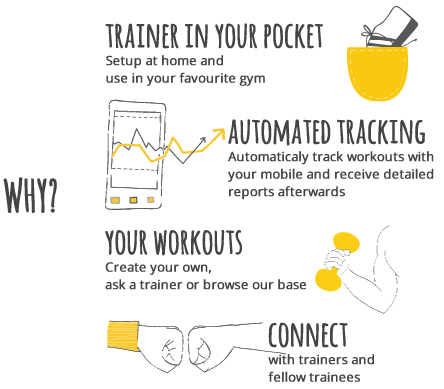
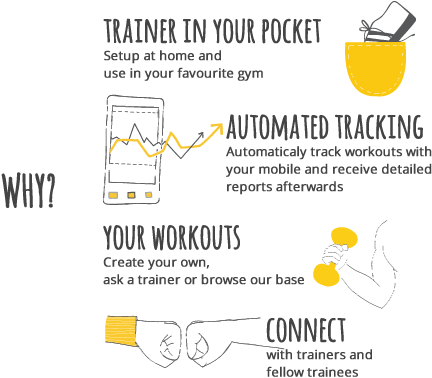
Staging now has the same configuration as production (apart from mailing). The login page has the transparent 'why register' image.

diff --git a/app/assets/stylesheets/registrations.css.scss b/app/assets/stylesheets/registrations.css.scss
@@ -1,7 +1,9 @@
 @import "definitions.scss";
 
 .registration-page {
+    $fieldsWidthWider: 300px;
     $fieldsWidth: 250px;
+    $fieldsWidthSmaller: 200px;
     
     .the-form {
         margin-bottom: 25px;
@@ -18,7 +20,14 @@
                 @include flat-text-input;
                 border: 1px solid #ddd;
                 width: $fieldsWidth;
+                @media (min-width: 768px) and (max-width: 979px) {
+                    width: $fieldsWidthSmaller;
+                }
+                @media (min-width: 1200px) {
+                    width: $fieldsWidthWider;
+                }
             }
+            
         }
         
         .remember-me {
@@ -40,10 +49,19 @@
         }
         
         .submit-button {
+            @mixin btn-login-adjusted-width($theWidth) {
+                width:$theWidth + 2*6px + 2px;
+            }
             input {
                 @include flat-btn;
                 padding: 6px;
-                width: $fieldsWidth + 2*6px + 2px;
+                @include btn-login-adjusted-width($fieldsWidth);
+                @media (min-width: 768px) and (max-width: 979px) {
+                    @include btn-login-adjusted-width($fieldsWidthSmaller);
+                }
+                @media (min-width: 1200px) {
+                    @include btn-login-adjusted-width($fieldsWidthWider);
+                }
                 background-color: $lightBlue;
                 color: white;
                 
@@ -63,8 +81,13 @@
     }
     
     .why-register {
-        @include central-image('login/why-register.png');
-        @include size(444px, 389px);
+        background: {
+            image: image-url('login/why-register.png');
+            position: 0px center;
+            repeat: no-repeat;
+        }
+        min-width: 432px;
+        height: 380px;
         margin-bottom: 25px;
     }
 }

diff --git a/config/environments/staging.rb b/config/environments/staging.rb
@@ -1,40 +1,69 @@
 Trainerjim::Application.configure do
   # Settings specified here will take precedence over those in config/application.rb
 
-  # In the development environment your application's code is reloaded on
-  # every request. This slows down response time but is perfect for development
-  # since you don't have to restart the web server when you make code changes.
-  config.cache_classes = false
+  # Code is not reloaded between requests
+  config.cache_classes = true
 
-  # Log error messages when you accidentally call methods on nil.
-  config.whiny_nils = true
+  # Full error reports are disabled and caching is turned on
+  config.consider_all_requests_local       = false
+  config.action_controller.perform_caching = true
 
-  # Show full error reports and disable caching
-  config.consider_all_requests_local       = true
-  config.action_controller.perform_caching = false
+  # Disable Rails's static asset server (Apache or nginx will already do this)
+  config.serve_static_assets = false
 
-  # We do care if the mailer can't send
-  config.action_mailer.raise_delivery_errors = true
+  # Compress JavaScripts and CSS
+  config.assets.compress = true
 
-  # Print deprecation notices to the Rails logger
-  config.active_support.deprecation = :log
+  # Don't fallback to assets pipeline if a precompiled asset is missed
+  config.assets.compile = false
 
-  # Only use best-standards-support built into browsers
-  config.action_dispatch.best_standards_support = :builtin
+  # Generate digests for assets URLs
+  config.assets.digest = true
 
-  # Raise exception on mass assignment protection for Active Record models
-  config.active_record.mass_assignment_sanitizer = :strict
+  # Defaults to nil and saved in location specified by config.assets.prefix
+  # config.assets.manifest = YOUR_PATH
+
+  # Specifies the header that your server uses for sending files
+  # config.action_dispatch.x_sendfile_header = "X-Sendfile" # for apache
+  # config.action_dispatch.x_sendfile_header = 'X-Accel-Redirect' # for nginx
+
+  # Force all access to the app over SSL, use Strict-Transport-Security, and use secure cookies.
+  # config.force_ssl = true
+
+  # See everything in the log (default is :info)
+  # config.log_level = :debug
+
+  # Prepend all log lines with the following tags
+  # config.log_tags = [ :subdomain, :uuid ]
+
+  # Use a different logger for distributed setups
+  # config.logger = ActiveSupport::TaggedLogging.new(SyslogLogger.new)
+
+  # Use a different cache store in production
+  # config.cache_store = :mem_cache_store
+
+  # Enable serving of images, stylesheets, and JavaScripts from an asset server
+  # config.action_controller.asset_host = "http://assets.example.com"
+
+  # Precompile additional assets (application.js, application.css, and all non-JS/CSS are already added)
+  # config.assets.precompile += %w( search.js )
+
+
+  # Enable threaded mode
+  # config.threadsafe!
+
+  # Enable locale fallbacks for I18n (makes lookups for any locale fall back to
+  # the I18n.default_locale when a translation can not be found)
+  config.i18n.fallbacks = true
+
+  # Send deprecation notices to registered listeners
+  config.active_support.deprecation = :notify
 
   # Log the query plan for queries taking more than this (works
   # with SQLite, MySQL, and PostgreSQL)
-  config.active_record.auto_explain_threshold_in_seconds = 0.5
-
-  # Do not compress assets
-  config.assets.compress = false
-
-  # Expands the lines which load the assets
-  config.assets.debug = true
+  # config.active_record.auto_explain_threshold_in_seconds = 0.5
   
+  config.action_mailer.raise_delivery_errors = true
   config.action_mailer.delivery_method = :sendmail
 #  config.action_mailer.smtp_settings = {
 #    :address => 'smtp.gmail.com',
